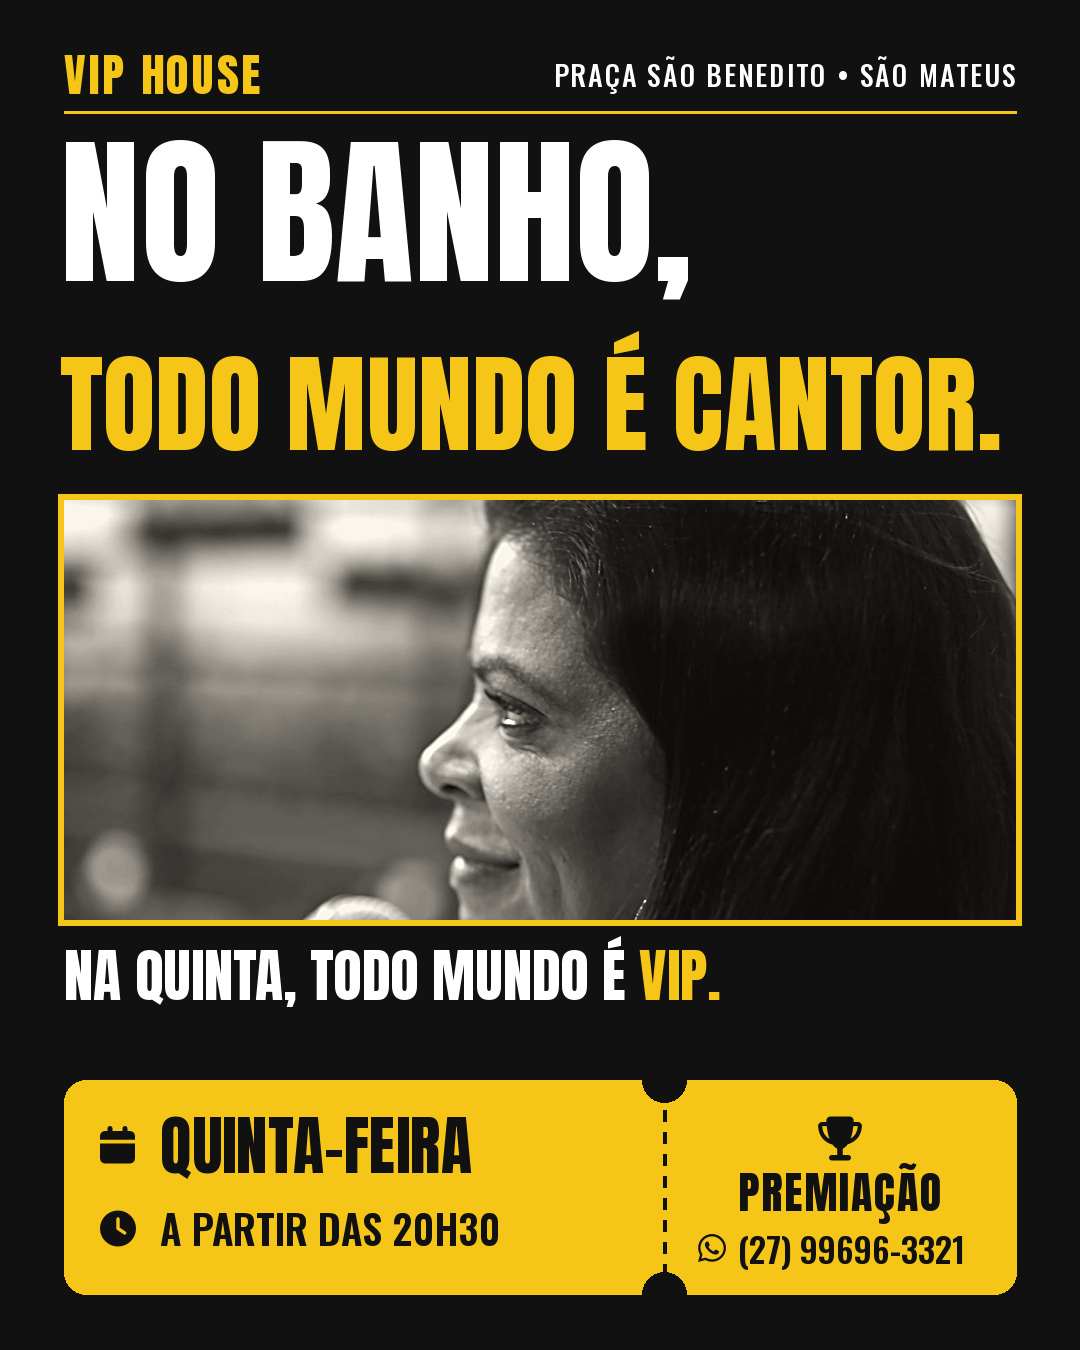
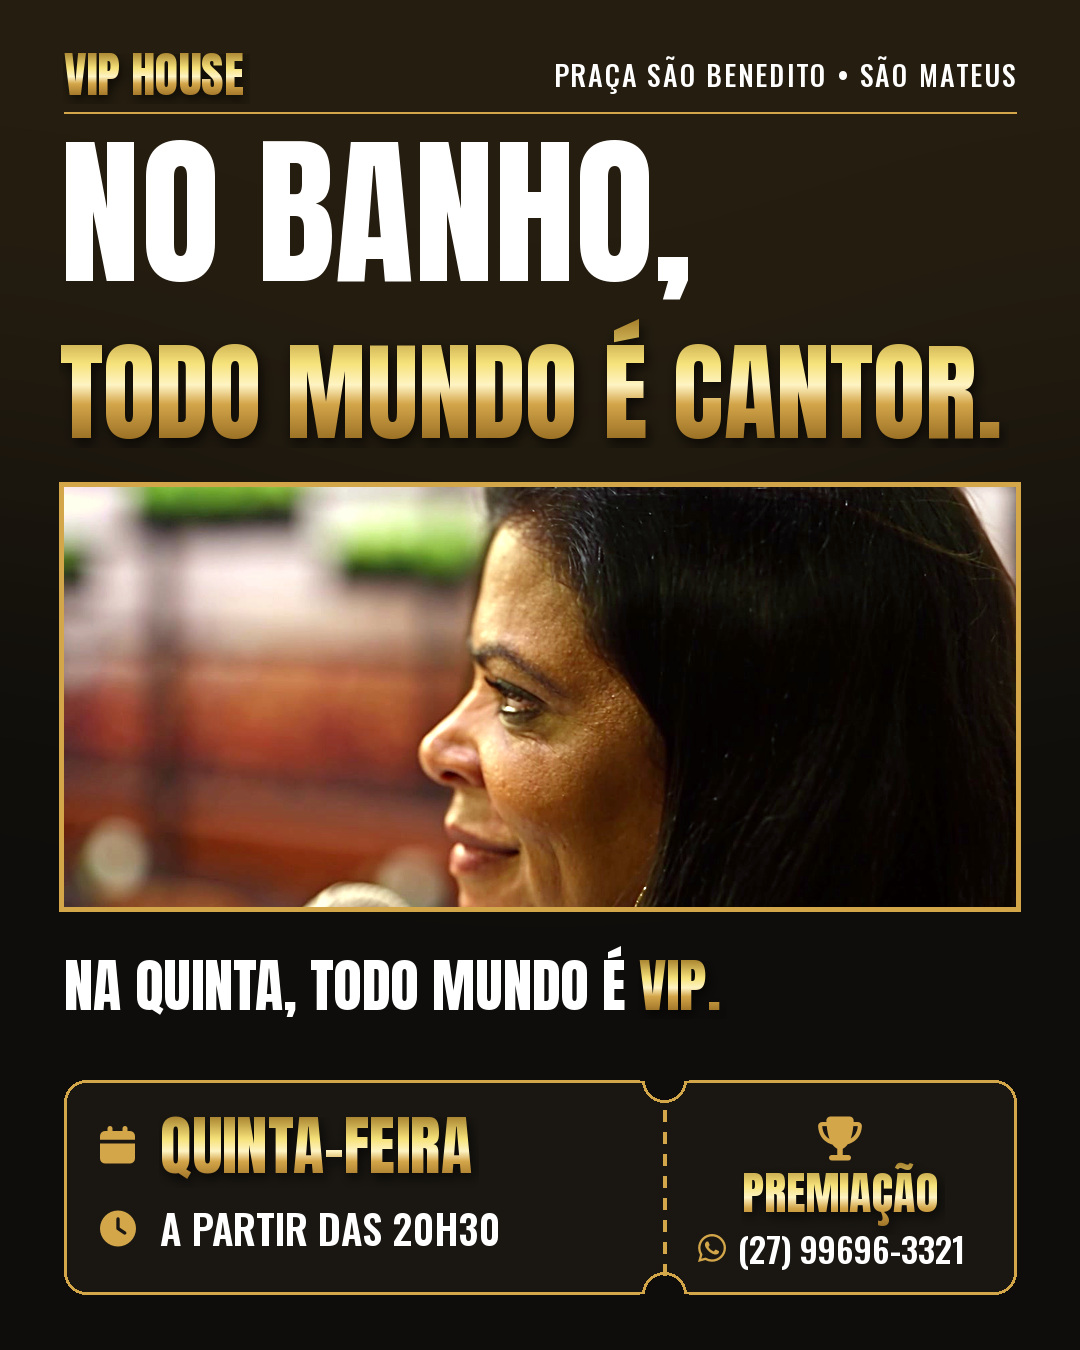
Switch the karaoke posts to the house black-and-gold style
Same layouts and copy; black stage with a warm glow, gold-gradient type
like the house flyers, real photos in warm colour, and the VIP ticket in
a dark card with a gold outline. Contrast of every gold/black pair
checked with the skill's script.

Claude-Session: https://claude.ai/code/session_01H1sCtr9HCz1dyib54J37Yc

diff --git a/media/vip-house/build/posts-karaoke/posts_dark.py b/media/vip-house/build/posts-karaoke/posts_dark.py
@@ -1,0 +1,192 @@
+"""VIP House karaoke posts: black-and-gold version (the house style), same layouts and content."""
+import sys
+sys.path.insert(0, '/tmp/claude-0/-home-user-a/8f0652ee-1482-53b0-83c8-c0d027028c46/scratchpad')
+from PIL import Image, ImageDraw, ImageOps, ImageEnhance, ImageFilter
+import posts_lib as L
+from posts_lib import W, H, M, ANTON, OSW5, OSW6, PHONE, font, fit, icon
+
+BG = (14, 13, 11)
+CARD = (26, 23, 18)
+GOLD = (212, 166, 74)
+GOLD_HI = (243, 220, 140)
+WHITE = (255, 255, 255)
+INK = (14, 13, 11)
+STOPS = [(0.0, (156, 116, 36)), (0.38, (246, 226, 122)), (0.55, (255, 244, 196)), (0.7, (212, 166, 74)), (1.0, (150, 108, 34))]
+
+
+def gradient(w, h):
+    g = Image.new('RGB', (1, h))
+    for y in range(h):
+        t = y / max(h - 1, 1)
+        for (a, ca), (b, cb) in zip(STOPS, STOPS[1:]):
+            if a <= t <= b:
+                k = (t - a) / (b - a)
+                g.putpixel((0, y), tuple(int(ca[i] + (cb[i] - ca[i]) * k) for i in range(3)))
+                break
+    return g.resize((w, h))
+
+
+def gold_text(img, xy, s, f, anchor='ls'):
+    """Text filled with the gold gradient of the house flyers."""
+    x0, y0, x1, y1 = f.getbbox(s, anchor=anchor)
+    pad = 4
+    w, h = int(x1 - x0) + 2 * pad, int(y1 - y0) + 2 * pad
+    mask = Image.new('L', (w, h), 0)
+    ImageDraw.Draw(mask).text((pad - x0, pad - y0), s, font=f, fill=255, anchor=anchor)
+    px, py = int(xy[0] + x0 - pad), int(xy[1] + y0 - pad)
+    shadow = mask.filter(ImageFilter.GaussianBlur(6))
+    img.paste((0, 0, 0), (px + 3, py + 5), shadow.point(lambda v: v * 0.7))
+    img.paste(gradient(w, h), (px, py), mask)
+
+
+def stack(img, x, y, lines, gap):
+    d = ImageDraw.Draw(img)
+    for s, f, fill in lines:
+        bx0, top, bx1, bottom = f.getbbox(s, anchor='ls')
+        base = y - top
+        if fill == 'GOLD':
+            gold_text(img, (x, base), s, f, 'ls')
+        else:
+            d.text((x, base), s, font=f, fill=fill, anchor='ls')
+        y = base + bottom + gap
+    return y
+
+
+def gtext(img, xy, s, f, anchor):
+    gold_text(img, xy, s, f, anchor)
+
+
+def canvas():
+    """Near-black stage with a warm spotlight glow from the top."""
+    img = Image.new('RGB', (W, H), BG)
+    glow = Image.new('L', (W, H), 0)
+    ImageDraw.Draw(glow).ellipse((-200, -520, W + 200, 620), fill=255)
+    glow = glow.filter(ImageFilter.GaussianBlur(180)).point(lambda v: int(v * 0.22))
+    img.paste((120, 86, 30), (0, 0), glow)
+    return img
+
+
+def photo(name, box_w, box_h, focus=(0.5, 0.5), zoom=1.0):
+    """Real photo in colour, warm and slightly punchier, to match the house's night photos."""
+    im = Image.open(f'{L.FOTOS}/{name}').convert('RGB')
+    target = box_w / box_h
+    cw = min(im.width, im.height * target) / zoom
+    ch = cw / target
+    cx, cy = focus[0] * im.width, focus[1] * im.height
+    x0 = min(max(cx - cw / 2, 0), im.width - cw)
+    y0 = min(max(cy - ch / 2, 0), im.height - ch)
+    im = im.crop((int(x0), int(y0), int(x0 + cw), int(y0 + ch))).resize((box_w, box_h), Image.LANCZOS)
+    im = ImageOps.autocontrast(im, cutoff=0.5)
+    im = ImageEnhance.Color(im).enhance(1.12)
+    r, g, b = im.split()
+    im = Image.merge('RGB', (r.point(lambda v: min(255, int(v * 1.04 + 4))), g, b.point(lambda v: int(v * 0.93))))
+    return im.filter(ImageFilter.UnsharpMask(radius=2, percent=50, threshold=2))
+
+
+def paste_photo(img, ph, x, y, bw=5):
+    d = ImageDraw.Draw(img)
+    d.rectangle((x - bw, y - bw, x + ph.width + bw - 1, y + ph.height + bw - 1), fill=GOLD)
+    img.paste(ph, (x, y))
+
+
+def ticket(img, y, line1='QUINTA-FEIRA', line2='A PARTIR DAS 20H30'):
+    d = ImageDraw.Draw(img)
+    x0, x1, h = M, W - M, 214
+    d.rounded_rectangle((x0, y, x1, y + h), radius=22, fill=CARD, outline=GOLD, width=3)
+    sx, r = x0 + 600, 22
+    for cy in (y, y + h):
+        d.ellipse((sx - r, cy - r, sx + r, cy + r), fill=BG, outline=GOLD, width=3)
+        d.rectangle((sx - r - 2, cy - r - 4 if cy == y else cy, sx + r + 2, cy if cy == y else cy + r + 4), fill=BG)
+    for yy in range(y + 30, y + h - 24, 22):
+        d.line((sx, yy, sx, yy + 11), fill=GOLD, width=4)
+    icon(d, (x0 + 36, y + 66), 'calendar', 40, GOLD)
+    gtext(img, (x0 + 96, y + 66), line1, font(ANTON, 64), 'lm')
+    icon(d, (x0 + 36, y + 148), 'clock', 36, GOLD)
+    d.text((x0 + 96, y + 148), line2, font=font(OSW6, 40), fill=WHITE, anchor='lm')
+    cx = (sx + x1) / 2
+    icon(d, (cx, y + 58), 'trophy', 44, GOLD, 'mm')
+    gtext(img, (cx, y + 112), 'PREMIAÇÃO', font(ANTON, 46), 'mm')
+    icon(d, (sx + 34, y + 168), 'whatsapp', 32, GOLD, 'lm')
+    d.text((sx + 74, y + 168), PHONE, font=font(OSW6, 34), fill=WHITE, anchor='lm')
+
+
+def header(img):
+    d = ImageDraw.Draw(img)
+    gtext(img, (M, 74), 'VIP HOUSE', font(ANTON, 48), 'lm')
+    L.text(d, (W - M, 74), 'PRAÇA SÃO BENEDITO • SÃO MATEUS', font(OSW5, 28), WHITE, 'rm', tracking=2)
+    d.line((M, 112, W - M, 112), fill=GOLD, width=2)
+
+
+def save(img, name):
+    img.save(f'{L.OUT}/{name}.jpg', quality=94, subsampling=0)
+    print('saved', name)
+
+
+# 1 ------------------------------------------------------------------ quinta é dia de soltar a voz
+img = canvas(); d = ImageDraw.Draw(img); header(img)
+big = fit('SOLTAR', ANTON, W - 2 * M, 212)
+y = stack(img, M - 4, 150, [('QUINTA É DIA DE', fit('QUINTA É DIA DE', ANTON, 640, 100), WHITE),
+                            ('SOLTAR', big, 'GOLD'), ('A VOZ', big, 'GOLD')], 22)
+ph_h = 1044 - (y + 18)
+paste_photo(img, photo('karaoke_0.9.jpg', 430, ph_h, focus=(0.30, 0.42), zoom=1.15), M + 6, y + 18)
+tx, ty = M + 6 + 430 + 40, y + 18
+stack(img, tx, ty, [('Karaokê ao vivo,', font(OSW5, 40), WHITE), ('palco aberto e', font(OSW5, 40), WHITE),
+                    ('premiação pra quem', font(OSW5, 40), WHITE), ('mandar bem.', font(OSW5, 40), WHITE)], 14)
+icon(d, (tx, ty + ph_h - 22), 'mic', 38, GOLD, 'lm')
+gtext(img, (tx + 40, ty + ph_h - 22), 'INSCRIÇÕES NO WHATS', font(ANTON, 42), 'lm')
+ticket(img, 1080)
+save(img, 'post1-quinta-e-dia-de-soltar-a-voz')
+
+# 2 ------------------------------------------------------------------ sobe no palco, sai com prêmio
+img = canvas(); d = ImageDraw.Draw(img); header(img)
+f1 = fit('SAI COM PRÊMIO.', ANTON, W - 2 * M, 200)
+y = stack(img, M - 4, 140, [('SOBE NO PALCO.', f1, 'GOLD'), ('SAI COM PRÊMIO.', f1, WHITE)], 18)
+paste_photo(img, photo('karaoke_2.2.jpg', W - 2 * M, 330, focus=(0.58, 0.78), zoom=1.39), M, y + 26)
+pw, gap, base = 300, 26, 1046
+heights = {1: 176, 2: 148, 3: 124}
+for place, x in [(2, M), (1, M + pw + gap), (3, M + 2 * (pw + gap))]:
+    h = heights[place]
+    d.rounded_rectangle((x, base - h, x + pw, base), radius=14, fill=CARD, outline=GOLD, width=3)
+    icon(d, (x + pw / 2, base - h + 36), 'trophy', 40 if place == 1 else 34, GOLD, 'mm')
+    gtext(img, (x + pw / 2, base - h + 90), f'{place}º LUGAR', font(ANTON, 50), 'mm')
+ticket(img, 1080)
+save(img, 'post2-sobe-no-palco-sai-com-premio')
+
+# 3 ------------------------------------------------------------------ qual música você vai cantar?
+img = canvas(); d = ImageDraw.Draw(img); header(img)
+f = fit('QUAL MÚSICA', ANTON, W - 2 * M, 160)
+y = stack(img, M - 4, 146, [('QUAL MÚSICA', f, 'GOLD'), ('VOCÊ VAI', f, WHITE), ('CANTAR?', f, 'GOLD')], 16)
+top = y + 22
+paste_photo(img, photo('karaoke_5.6.jpg', 560, 1030 - top, focus=(0.30, 0.55), zoom=1.2), M + 6, top)
+bx0, by0, bx1, by1 = M + 600, top, W - M, 1030
+d.rounded_rectangle((bx0, by0, bx1, by1), radius=24, fill=GOLD)
+d.polygon([(bx0 + 40, by1 - 2), (bx0 + 90, by1 - 2), (bx0 + 30, by1 + 40)], fill=GOLD)
+icon(d, (bx0 + 30, by0 + 52), 'comment', 40, INK, 'lm')
+d.text((bx0 + 84, by0 + 52), 'COMENTA', font=font(ANTON, 50), fill=INK, anchor='lm')
+stack(img, bx0 + 30, by0 + 96, [('a sua música', font(OSW5, 36), INK), ('aqui embaixo.', font(OSW5, 36), INK),
+                                ('A mais pedida', font(OSW6, 36), INK), ('abre a noite!', font(OSW6, 36), INK)], 12)
+ticket(img, 1080)
+save(img, 'post3-qual-musica-voce-vai-cantar')
+
+# 4 ------------------------------------------------------------------ no banho todo mundo é cantor
+img = canvas(); d = ImageDraw.Draw(img); header(img)
+y = stack(img, M - 4, 140, [('NO BANHO,', fit('NO BANHO,', ANTON, 640, 190), WHITE),
+                            ('TODO MUNDO É CANTOR.', fit('TODO MUNDO É CANTOR.', ANTON, W - 2 * M, 150), 'GOLD')], 18)
+paste_photo(img, photo('karaoke_7.4.jpg', W - 2 * M, 420, focus=(0.55, 0.45), zoom=1.35), M, y + 30)
+fq = font(ANTON, 58)
+d.text((M, 1010), 'NA QUINTA, TODO MUNDO É', font=fq, fill=WHITE, anchor='ls')
+gtext(img, (M + fq.getlength('NA QUINTA, TODO MUNDO É '), 1010), 'VIP.', fq, 'ls')
+ticket(img, 1080)
+save(img, 'post4-no-banho-todo-mundo-e-cantor')
+
+# 5 ------------------------------------------------------------------ é hoje
+img = canvas(); d = ImageDraw.Draw(img); header(img)
+fh = fit('É HOJE.', ANTON, W - 2 * M, 460)
+stack(img, M - 8, 150, [('É HOJE.', fh, 'GOLD')], 0)
+paste_photo(img, photo('karaoke_13.3.jpg', 470, 430, focus=(0.47, 0.42), zoom=1.3), M + 6, 590)
+tx = M + 6 + 470 + 40
+stack(img, tx, 600, [('KARAOKÊ', font(ANTON, 92), 'GOLD'), ('NA VIP HOUSE', font(ANTON, 56), WHITE)], 16)
+stack(img, tx, 790, [('Chega cedo,', font(OSW5, 38), WHITE), ('garante sua mesa', font(OSW5, 38), WHITE),
+                     ('e escolhe a música.', font(OSW5, 38), WHITE)], 14)
+ticket(img, 1080, line1='HOJE')
+save(img, 'post5-e-hoje')

diff --git a/media/vip-house/build/posts-karaoke/posts_lib.py b/media/vip-house/build/posts-karaoke/posts_lib.py
@@ -1,0 +1,140 @@
+"""VIP House: five new feed posts (4:5) for the Thursday karaoke.
+
+Direction: "palco amarelo" poster. Black ink type as image on the VIP yellow stage,
+real karaoke photos in black and white, posts alternating yellow / black, and a
+"VIP ticket" strip that always carries the real info (quinta, 20h30, praça, inscrições).
+"""
+import sys
+from PIL import Image, ImageDraw, ImageFont, ImageOps, ImageFilter
+
+S = '/tmp/claude-0/-home-user-a/8f0652ee-1482-53b0-83c8-c0d027028c46/scratchpad'
+F = f'{S}/fonts2'
+OUT = f'{S}/posts_preto'
+FOTOS = f'{S}/posts/fotos'
+W, H, M = 1080, 1350, 64
+
+YEL, INK, PAPER, WHITE = (245, 197, 24), (17, 17, 17), (255, 244, 214), (255, 255, 255)
+ANTON = f'{F}/fontsource-anton-5.3.0/files/anton-latin-400-normal.woff'
+OSW6 = f'{F}/fontsource-oswald-5.3.0/files/oswald-latin-600-normal.woff'
+OSW5 = f'{F}/fontsource-oswald-5.3.0/files/oswald-latin-500-normal.woff'
+FA = f'{F}/fa-solid-900.ttf'
+FAB = f'{F}/fa-brands-400.ttf'
+ICON = {'calendar': 0xf133, 'clock': 0xf017, 'pin': 0xf3c5, 'trophy': 0xf091, 'mic': 0xf130,
+        'comment': 0xf075, 'crown': 0xf521, 'star': 0xf005}
+BRAND = {'whatsapp': 0xf232}
+PHONE = '(27) 99696-3321'
+
+
+def font(path, size):
+    return ImageFont.truetype(path, size)
+
+
+def fit(text, path, max_w, start=400, min_size=20):
+    size = start
+    while size > min_size:
+        f = font(path, size)
+        if f.getlength(text) <= max_w:
+            return f
+        size -= 2
+    return font(path, min_size)
+
+
+def text(d, xy, s, f, fill, anchor='la', tracking=0):
+    if not tracking:
+        d.text(xy, s, font=f, fill=fill, anchor=anchor)
+        return f.getlength(s)
+    # manual tracking
+    total = sum(f.getlength(c) for c in s) + tracking * (len(s) - 1)
+    x, y = xy
+    if anchor[0] == 'm':
+        x -= total / 2
+    elif anchor[0] == 'r':
+        x -= total
+    for c in s:
+        d.text((x, y), c, font=f, fill=fill, anchor='l' + anchor[1])
+        x += f.getlength(c) + tracking
+    return total
+
+
+
+def stack(d, x, y, lines, gap):
+    """Draw lines top-down using each line's ink box, so accents never touch the line above."""
+    for s, f, fill in lines:
+        x0, top, x1, bottom = f.getbbox(s, anchor='ls')
+        base = y - top
+        d.text((x, base), s, font=f, fill=fill, anchor='ls')
+        y = base + bottom + gap
+    return y
+
+
+def icon(d, xy, name, size, fill, anchor='lm'):
+    cp, path = (ICON[name], FA) if name in ICON else (BRAND[name], FAB)
+    d.text(xy, chr(cp), font=font(path, size), fill=fill, anchor=anchor)
+
+
+def photo(name, box_w, box_h, focus=(0.5, 0.5), zoom=1.0):
+    """Black-and-white documentary treatment, cropped to the box around a focus point."""
+    im = Image.open(f'{FOTOS}/{name}').convert('RGB')
+    target = box_w / box_h
+    cw = min(im.width, im.height * target) / zoom
+    ch = cw / target
+    cx, cy = focus[0] * im.width, focus[1] * im.height
+    x0 = min(max(cx - cw / 2, 0), im.width - cw)
+    y0 = min(max(cy - ch / 2, 0), im.height - ch)
+    im = im.crop((int(x0), int(y0), int(x0 + cw), int(y0 + ch))).resize((box_w, box_h), Image.LANCZOS)
+    g = ImageOps.autocontrast(im.convert('L'), cutoff=1)
+    g = ImageOps.colorize(g, black=(14, 13, 11), white=(250, 246, 236), mid=(128, 124, 116))
+    return g.filter(ImageFilter.UnsharpMask(radius=2, percent=60, threshold=2))
+
+
+def paste_photo(img, ph, x, y, border=INK, bw=8):
+    d = ImageDraw.Draw(img)
+    d.rectangle((x - bw, y - bw, x + ph.width + bw - 1, y + ph.height + bw - 1), fill=border)
+    img.paste(ph, (x, y))
+
+
+def ticket(img, y, dark, line1='QUINTA-FEIRA', line2='A PARTIR DAS 20H30'):
+    """The VIP ticket: real info + perforated stub with prize and sign-up."""
+    d = ImageDraw.Draw(img)
+    bg = INK if dark else YEL
+    fg = YEL if dark else INK
+    sub = WHITE if dark else INK
+    stage = YEL if dark else INK  # colour of the poster behind the ticket
+    x0, x1, h = M, W - M, 214
+    d.rounded_rectangle((x0, y, x1, y + h), radius=22, fill=bg)
+    sx = x0 + 600  # perforation
+    r = 22
+    for cy in (y, y + h):
+        d.ellipse((sx - r, cy - r, sx + r, cy + r), fill=stage)
+    for yy in range(y + 30, y + h - 24, 22):
+        d.line((sx, yy, sx, yy + 11), fill=fg, width=4)
+    # left: day and time, with icons
+    icon(d, (x0 + 36, y + 66), 'calendar', 40, fg)
+    text(d, (x0 + 96, y + 66), line1, font(ANTON, 64), fg, 'lm')
+    icon(d, (x0 + 36, y + 148), 'clock', 36, fg)
+    text(d, (x0 + 96, y + 148), line2, font(OSW6, 40), sub, 'lm')
+    # stub: prize + sign-up
+    cx = (sx + x1) / 2
+    icon(d, (cx, y + 58), 'trophy', 44, fg, 'mm')
+    text(d, (cx, y + 112), 'PREMIAÇÃO', font(ANTON, 44), fg, 'mm', tracking=2)
+    icon(d, (sx + 34, y + 168), 'whatsapp', 32, fg, 'lm')
+    text(d, (sx + 74, y + 168), PHONE, font(OSW6, 34), sub, 'lm')
+
+
+def header(img, dark):
+    d = ImageDraw.Draw(img)
+    fg = YEL if dark else INK
+    text(d, (M, 74), 'VIP HOUSE', font(ANTON, 46), fg, 'lm', tracking=3)
+    text(d, (W - M, 74), 'PRAÇA SÃO BENEDITO • SÃO MATEUS', font(OSW5, 28), WHITE if dark else INK, 'rm', tracking=2)
+    d.line((M, 112, W - M, 112), fill=fg, width=3)
+
+
+def canvas(dark):
+    return Image.new('RGB', (W, H), INK if dark else YEL)
+
+
+def save(img, name):
+    img.save(f'{OUT}/{name}.jpg', quality=94, subsampling=0)
+    print('saved', name)
+
+

diff --git a/media/vip-house/posts-karaoke/legendas.md b/media/vip-house/posts-karaoke/legendas.md
@@ -1,6 +1,6 @@
 # Posts do karaokê de quinta: @viphousesm
 
-Cinco posts de feed (4:5, 1080x1350), só imagem. Fotos reais do karaokê da casa, sem imagem de IA.
+Cinco posts de feed (4:5, 1080x1350), só imagem, em preto e dourado (estilo da casa). Fotos reais do karaokê da casa, sem imagem de IA.
 Antes de postar, confira o WhatsApp de inscrição (27) 99696-3321, que veio do post de agosto.
 
 ## Seg, 18h: post1-quinta-e-dia-de-soltar-a-voz.jpg
